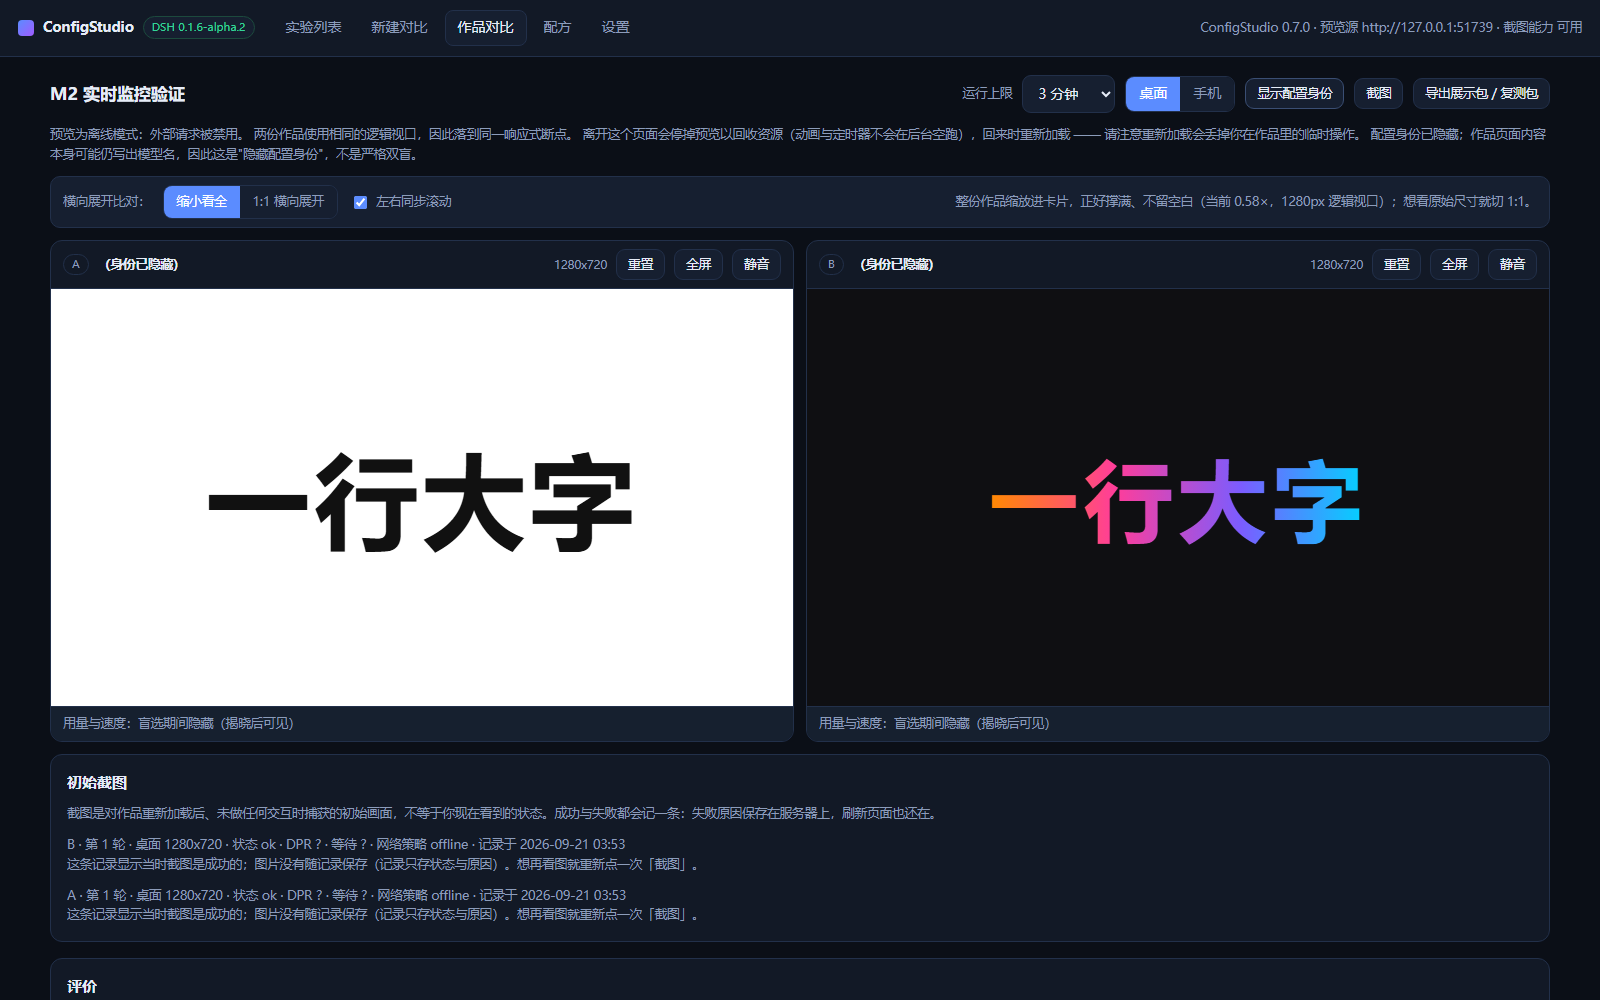
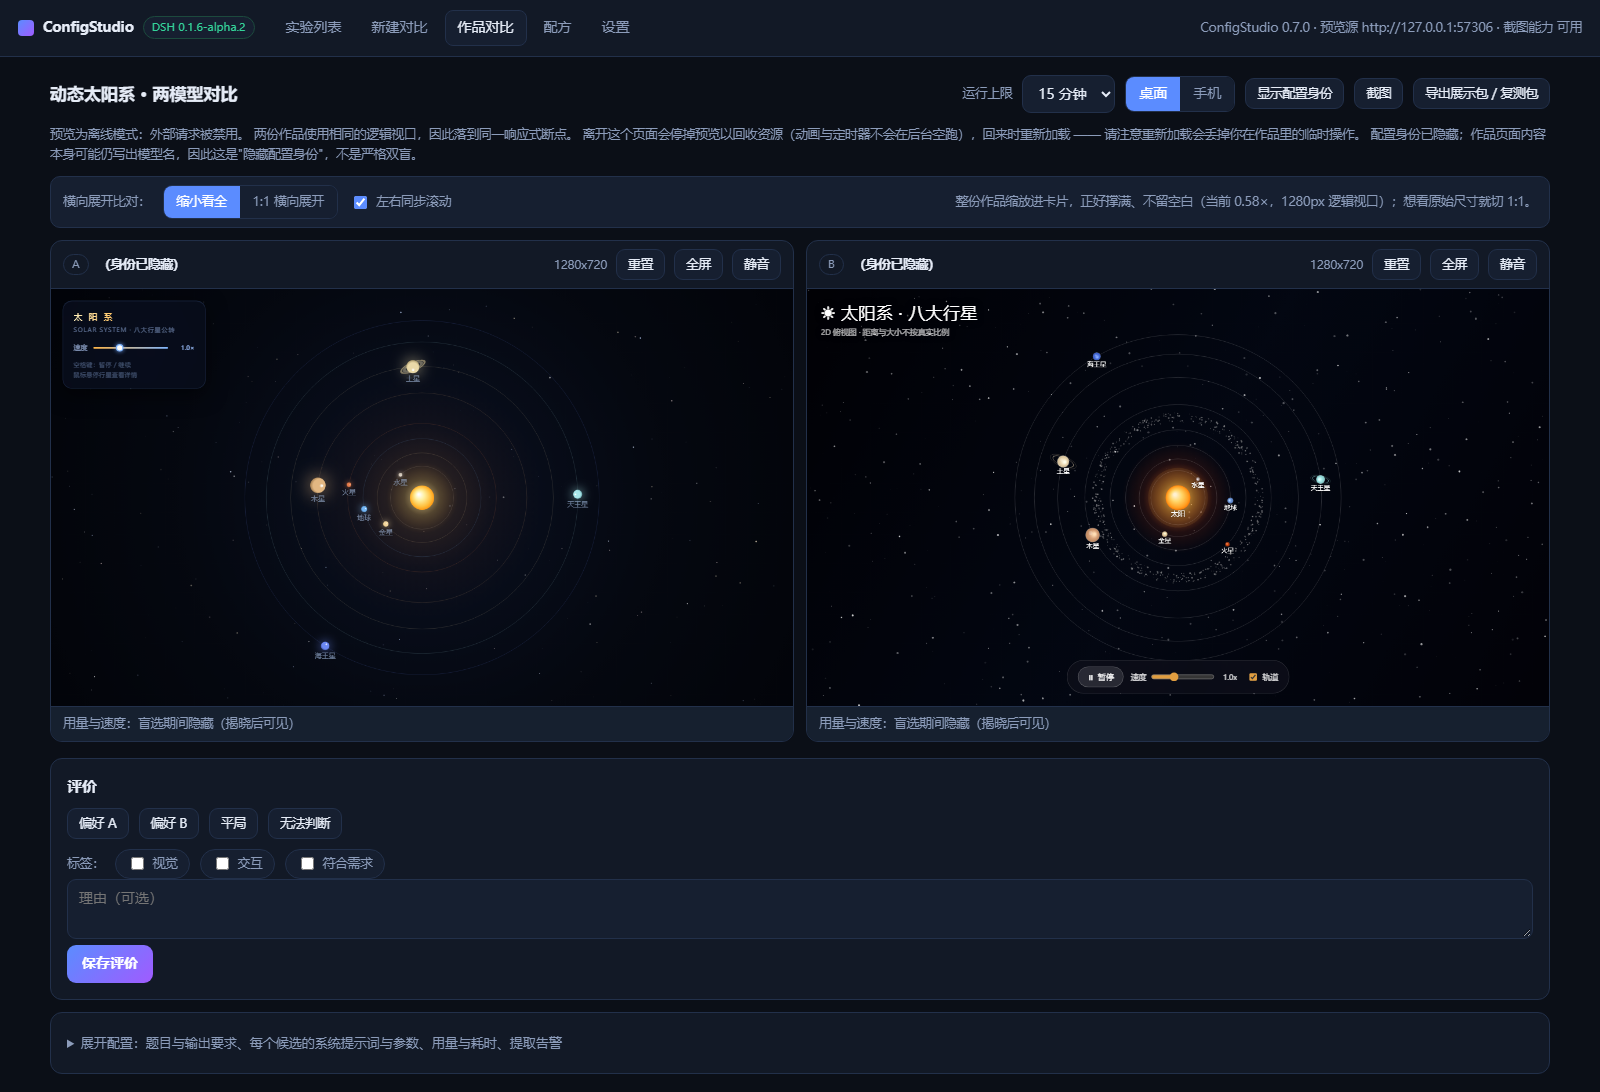
docs(shots): 用 0.10.0 的真实对比图替换 README 那三张（鹈鹕/四候选/盲选），文案对齐

diff --git a/README.md b/README.md
@@ -58,11 +58,12 @@ ConfigStudio 是一个 **DSH（DeepSeek Harness）Web 插件**，让你自定义
 下面这些是**实测过程中的真实截图**（不是示意图、不是手画的 mock）：
 
 **一次真实对比 —— 题目「写一个动态的鹈鹕骑自行车」，两个候选都开思考档位 max**
-（左边跑完了，右边超时 —— 这张图同时展示了"成品"和"失败长什么样"）：
+（都跑完了：左边 `ccg/deepseek/deepseek-v4.1-flash`，右边 `ccg/deepseek/deepseek-v4-pro`，107 秒 / 252 秒）：
 
-![真实对比：鹈鹕骑自行车，左完成右超时](docs/evidence/pelican-compare-page.png)
+![真实对比：鹈鹕骑自行车，两个候选都开出成品](docs/evidence/pelican-compare-page.png)
 
-**四个候选并排**（窄视口下仍然是左右并排，不是上下堆叠）：
+**四个候选并排** —— 题目「写一个动态的秦始皇骑北极熊」，ccg 四家模型全部开 max
+（四个作品都在画面里，不是只露半张）：
 
 ![四候选并排对比](docs/evidence/m2-four-candidates.png)
 
